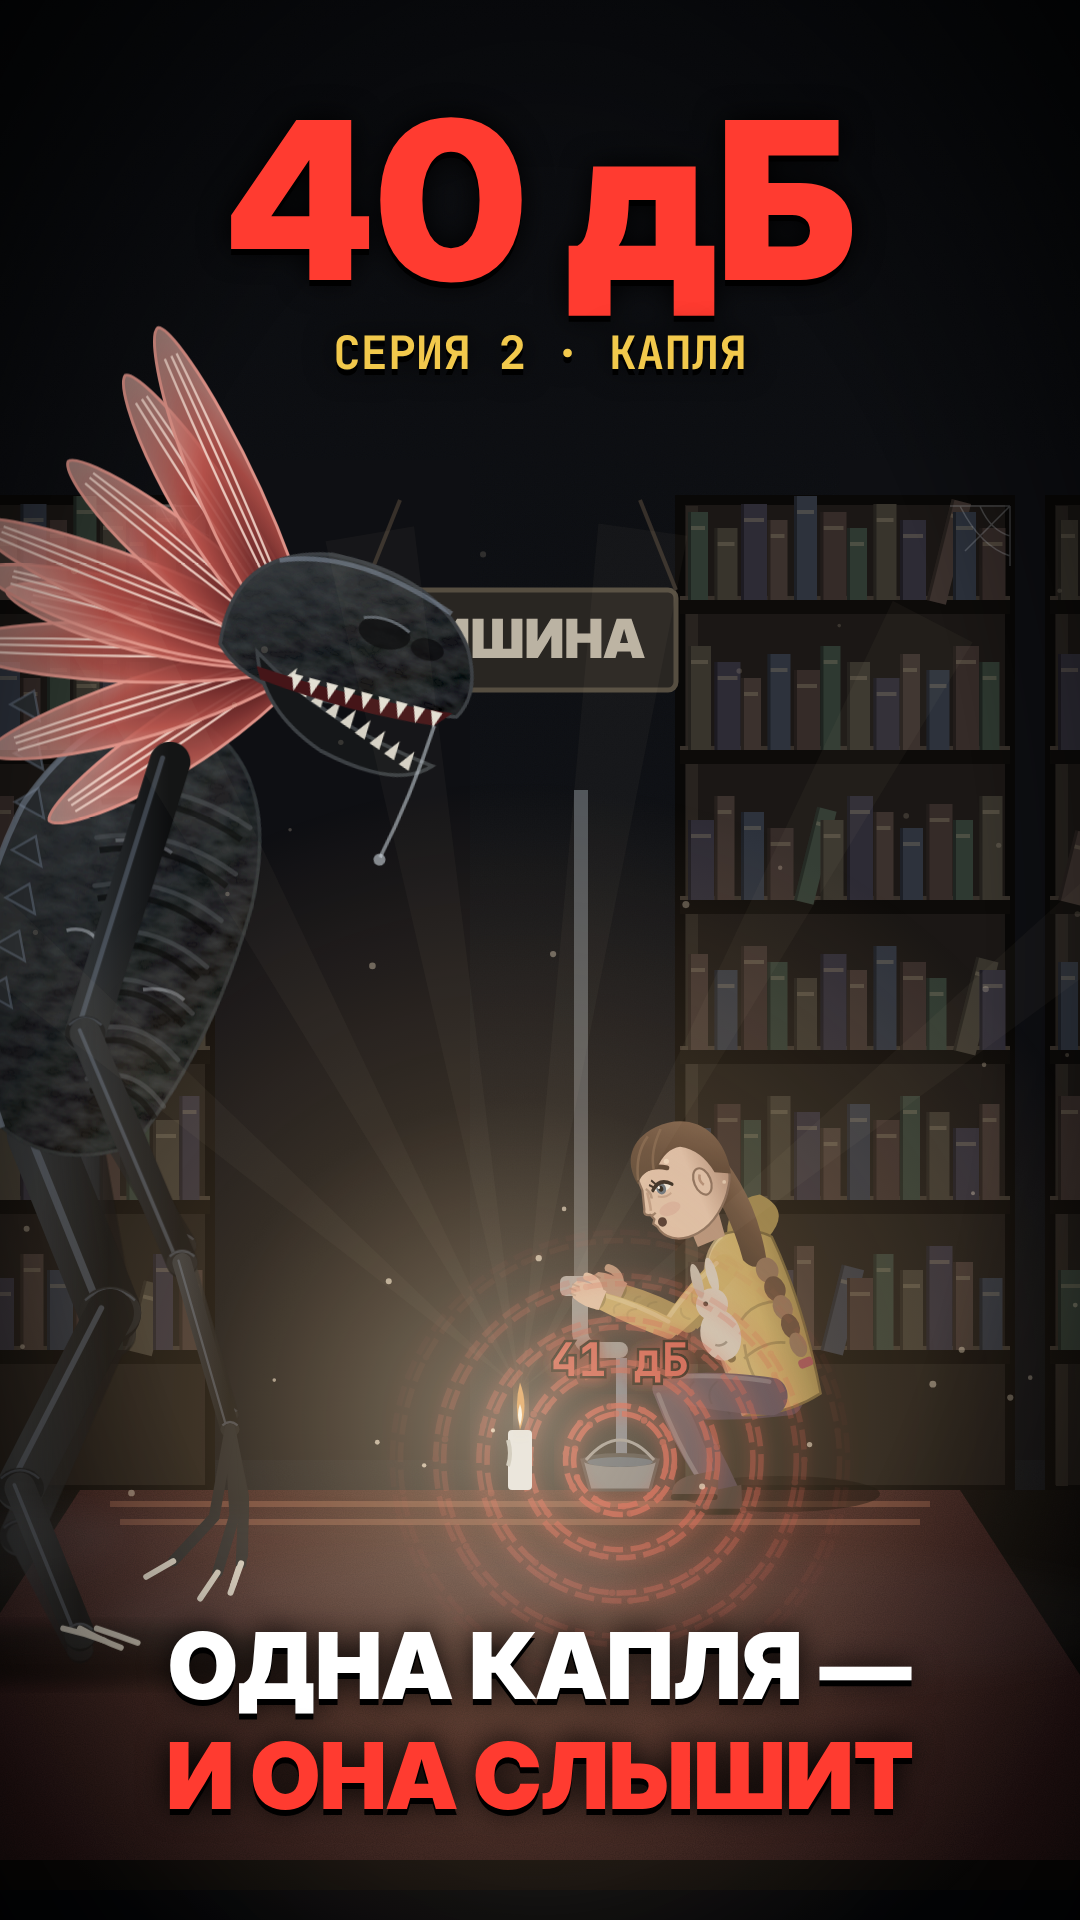
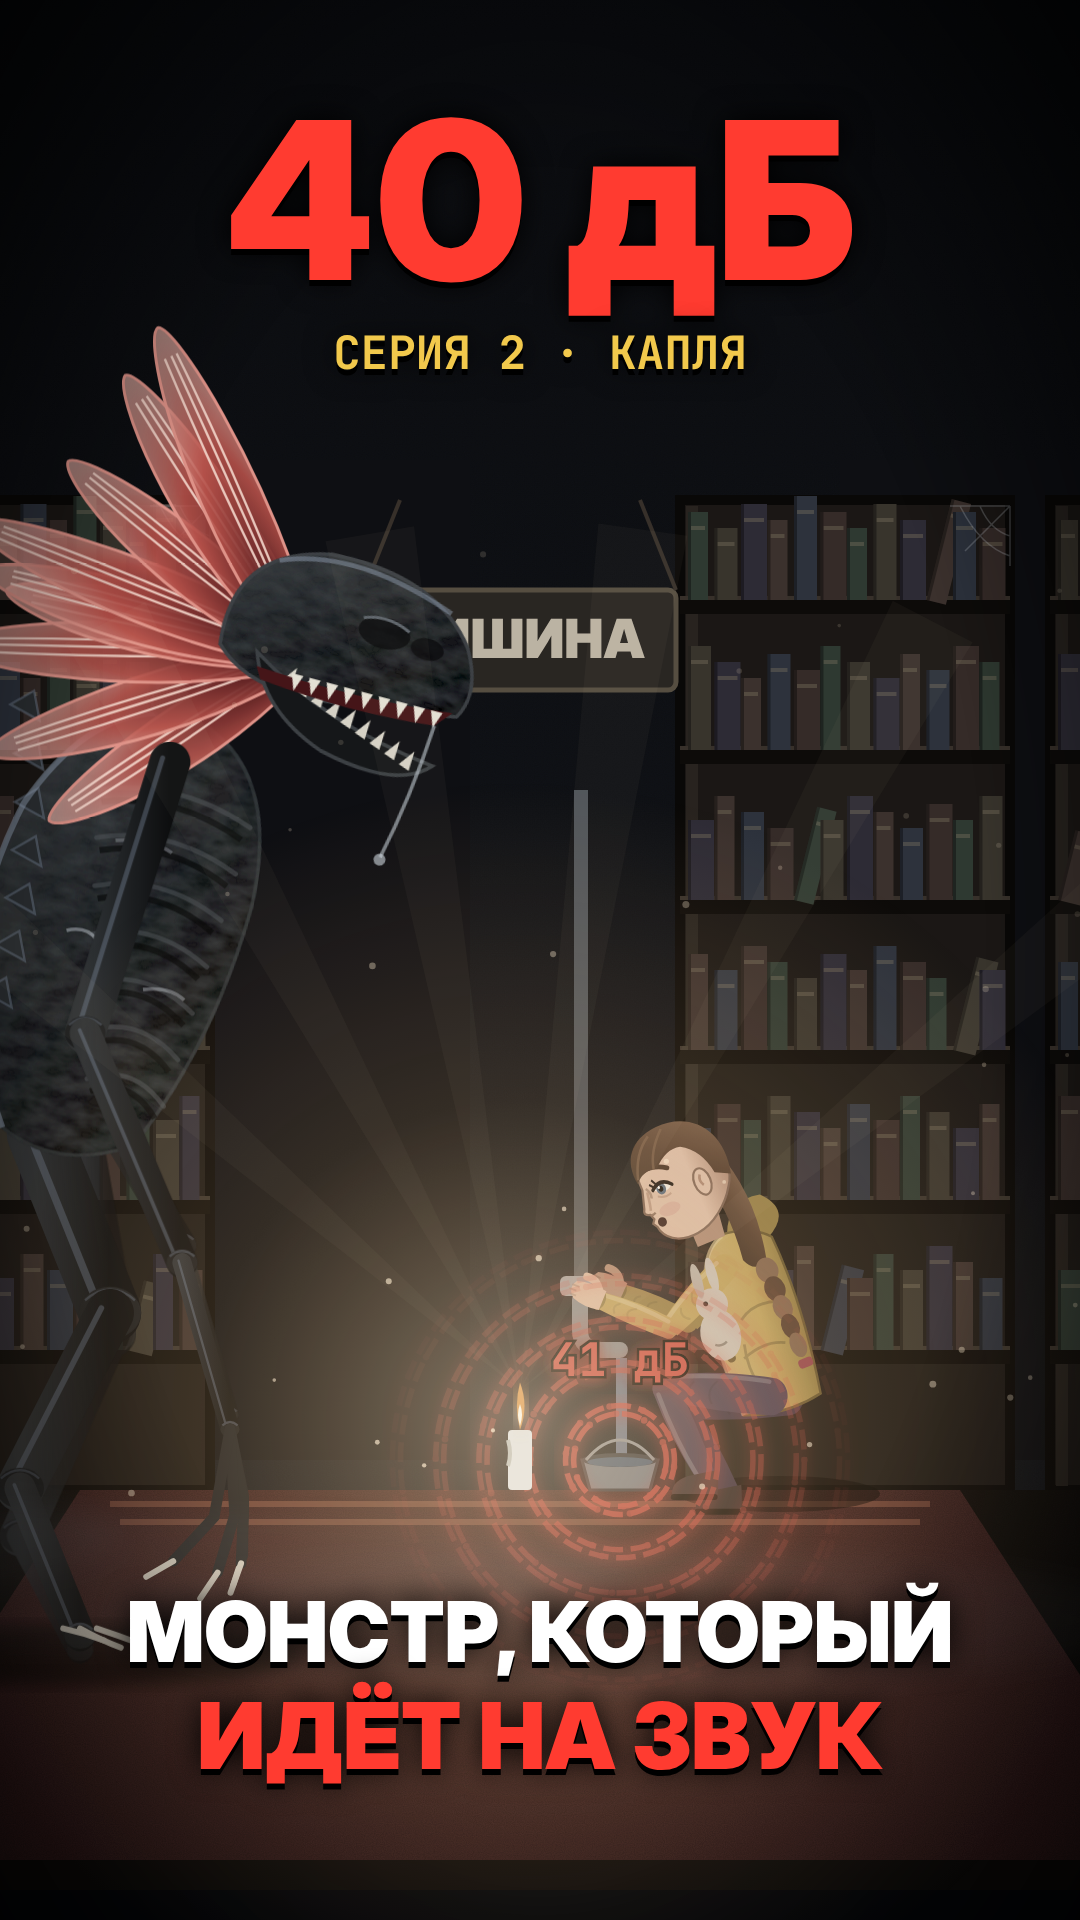
40 дБ с2: обложка «Монстр, который идёт на звук»
Claude-Session: https://claude.ai/code/session_019rsVA8Qxa2L6MobpBtxZF9

Changed region(s): [[0.0917, 0.8125, 0.8861, 0.9688]]

diff --git a/survival-studio/video/src/episodes/db/DbCover.tsx b/survival-studio/video/src/episodes/db/DbCover.tsx
@@ -31,14 +31,14 @@ export const Db2Cover: React.FC<{ wide?: boolean }> = ({ wide }) => {
       {!wide && (<>
         <div style={{ ...T, position: "absolute", left: 0, right: 0, top: 90, textAlign: "center", fontSize: 220, color: "#FF3B30" }}>40 дБ</div>
         <div style={{ ...T, position: "absolute", left: 0, right: 0, top: 330, textAlign: "center", fontSize: 46, color: "#F2C94C", fontFamily: "JetBrains Mono" }}>СЕРИЯ 2 · КАПЛЯ</div>
-        <div style={{ ...T, position: "absolute", left: 60, right: 60, top: 1620, textAlign: "center", fontSize: 92, color: "#FFFFFF" }}>ОДНА КАПЛЯ —</div>
-        <div style={{ ...T, position: "absolute", left: 60, right: 60, top: 1730, textAlign: "center", fontSize: 92, color: "#FF3B30" }}>И ОНА СЛЫШИТ</div>
+        <div style={{ ...T, position: "absolute", left: 60, right: 60, top: 1590, textAlign: "center", fontSize: 84, color: "#FFFFFF" }}>МОНСТР, КОТОРЫЙ</div>
+        <div style={{ ...T, position: "absolute", left: 60, right: 60, top: 1690, textAlign: "center", fontSize: 92, color: "#FF3B30" }}>ИДЁТ НА ЗВУК</div>
       </>)}
       {wide && (<>
         <div style={{ ...T, position: "absolute", left: 660, top: 60, fontSize: 170, color: "#FF3B30" }}>40 дБ</div>
         <div style={{ ...T, position: "absolute", left: 670, top: 250, fontSize: 36, color: "#F2C94C", fontFamily: "JetBrains Mono" }}>СЕРИЯ 2 · КАПЛЯ</div>
-        <div style={{ ...T, position: "absolute", left: 670, top: 340, fontSize: 70, color: "#FFFFFF" }}>Одна капля —</div>
-        <div style={{ ...T, position: "absolute", left: 670, top: 420, fontSize: 70, color: "#FF3B30" }}>и она слышит</div>
+        <div style={{ ...T, position: "absolute", left: 670, top: 340, fontSize: 64, color: "#FFFFFF" }}>Монстр, который</div>
+        <div style={{ ...T, position: "absolute", left: 670, top: 420, fontSize: 64, color: "#FF3B30" }}>идёт на звук</div>
         <div style={{ ...T, position: "absolute", left: 670, top: 540, fontSize: 54, color: "#F2C94C" }}>41 дБ</div>
       </>)}
     </AbsoluteFill>
